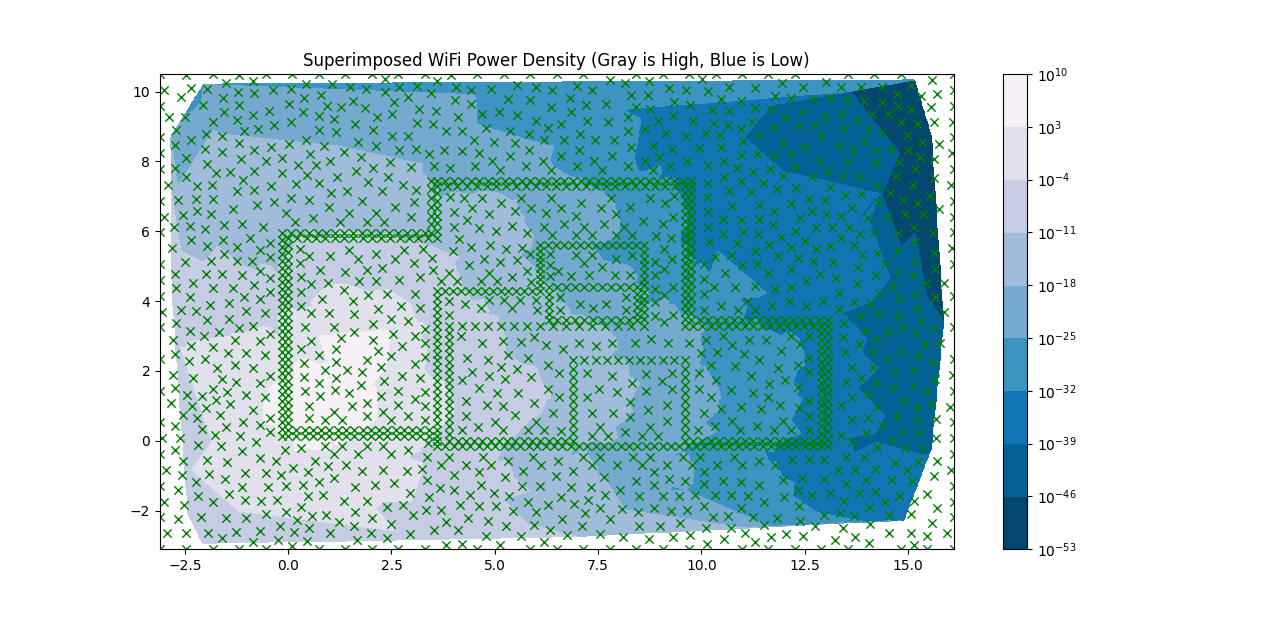
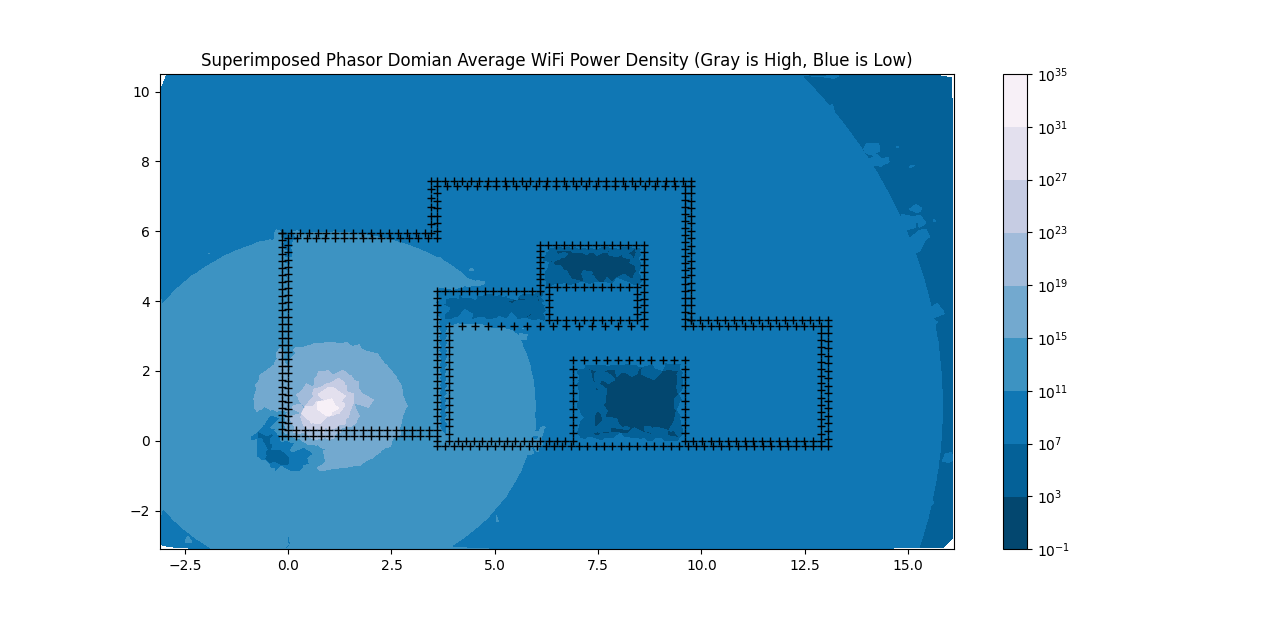
Version 1.6.0
Updated modeling of the source term-it is now modeled as a "circular wave" in x and y with harmonics at 2.4 GHz and 5.0 GHz. The problem is then reformulated as solving the vector-valued Helmholtz equation for the x- and y- components of the electric field in the phasor domain.  The density of the FEM is increased, the FEM system now solved is approximately of dimension 10,200 x 10,200, and is solved using SciPy's sparse matrix subroutines.

diff --git a/ssWFS.py b/ssWFS.py
@@ -2,13 +2,13 @@
 Eric Gelphman
 University of California Irvine Department of Mathematics
 
-Program using various Python packages to solve the linear Helmholtz equation in the phasor domain 
-with inverse-square source term with natural boundary conditions(set 3.0m from the house, over the domain 
-of my house using the linear finite element method. Section 9.4 of Kincaid and Cheney, Section 12.5 of Burden 
-and Faires, and Chapter 8 of Reddy were the three main resources consulted in the constructionof this program.
+Program using various Python packages to calculate the steady-state power density of WiFi in my house. This is accomplished by solving 
+the two dimensional vector linear Helmholtz equation in the phasor domain with circular wave source term with natural boundary conditions 
+using the linear finite element method. Section 9.4 of Kincaid and Cheney, Section 12.5 of Burden and Faires, and Chapter 8 of Reddy were 
+the three main resources consulted in the construction of this program.
 
-February 19, 2020
-v1.5.1
+February 20, 2020
+v1.6.0
 """
 
 import numpy as np
@@ -67,7 +67,37 @@ def evaluateZInt(x_coords, y_coords, tri_coefs_j, tri_coefs_k):
     z_int = h*J2#Approximation of double integral
     return z_int
 
-def evaluateHInt(x_coords, y_coords, tri_coefs_j):
+def evalf(x, y, wv_k, source_component):
+    """
+    Function to evaluate the specified component('x' or 'y') of the vector-valued source function f(x,y)
+    with wave number wv_k 
+    """
+    R = np.sqrt((x-1.0)**2 + (y-1.0)**2)
+    phi = 0.0
+    if x != 0.0:
+        phi = np.arctan(y/x)
+    elif x == 0.0:
+        if y == 0.0:
+            phi = 0.0
+        else:
+            phi = np.pi/2.0
+    A = 1.0/np.sqrt(2.0)
+    f_R = 0.0
+    f_theta = 0.0
+    if np.sqrt(x**2 + y**2) < 1.0:
+        f_R = A*(5.0 - (5.0/3.0)*R - R**2 - (4.0/3.0)*(R**3))*np.exp(-1j*wv_k*R)
+        f_theta = 0.5*A*(5.0 - (5.0/3.0)*R - R**2 - (4.0/3.0)*(R**3))*np.exp(-1j*wv_k*R)
+    else:
+        f_R = A*np.exp(-1j*wv_k*R)*(1.0/((wv_k*R)**2) - (1j/((wv_k*R)**3)))
+        f_theta = A*np.exp(-1j*wv_k*R)*((1j/(wv_k*R)) + 1.0/((wv_k*R)**2) - (1j/((wv_k*R)**3)))
+    F = 0.0
+    if source_component == 'x':
+        F = np.cos(phi)*f_R + R*np.cos(phi)*f_theta
+    elif source_component == 'y':
+        F = np.sin(phi)*f_R + R*np.sin(phi)*f_theta
+    return F*1.0e-12
+    
+def evaluateHInt(x_coords, y_coords, coefs_j, source_component, wv_k):
     """
     Function to evaluate integral over a triangular elements that does involve the source term f
     using Gaussian quadrature
@@ -75,8 +105,11 @@ def evaluateHInt(x_coords, y_coords, tri_coefs_j):
     Parameters:
     x_coords: Length 3 numpy array pf x-coordinates [x_0, x_1, x_2] of verticies of triangle
     y_coords: Length 3 numpy array of y-coordinates [y_0, y_1, y_2] of verticies of triangle
-    tri_coefs_j: Length 3 numpy array of triangle coefficents [a_j, b_j, c_j]
-
+    coefs_j: Length 3 numpy array of linear polynomial coefficents [a_j_i, b_j_i, c_j_i]
+    source_component: 'x' or 'y' to indicate which coomponent of the source function, which is vector valued, 
+                       to integrate
+    wv_k: wave number
+                        
     Return:
     Approximation to integral involving f over triangle
     """
@@ -86,14 +119,16 @@ def evaluateHInt(x_coords, y_coords, tri_coefs_j):
     y_0 = y_coords[0]
     y_1 = y_coords[1]
     y_2 = y_coords[2]
-    a_j_i = tri_coefs_j[0]
-    b_j_i = tri_coefs_j[1]
-    c_j_i = tri_coefs_j[2]
+    a_j_i = coefs_j[0]
+    b_j_i = coefs_j[1]
+    c_j_i = coefs_j[2]
     gauss_c = np.array([0.3626837833783620,0.3626837833783620,0.3137066458778873,0.3137066458778873,0.2223810344533745,0.2223810344533745,0.1012285362903763,0.1012285362903763])
     gauss_r = np.array([-0.1834346424956498,0.1834346424956498,-0.5255324099163290,0.5255324099163290,-0.7966664774136267,0.7966664774136267,-0.9602898564975363,0.9602898564975363])
+    L = len(gauss_r)
     #Change coordinates so double integral is over the triangle with verticies (0,0),(1,0),(0,1)
-    J_abs = np.abs((x_1 - x_0)*(y_2 - y_0) - (x_2 - x_0)*(y_1 - y_0))#Absolute value of determinant of Jacobian matrix
-    #Apply two-variable Gaussian quadrature, this involves another change of variables-multiply Jacobians
+    J_abs = np.abs((x_1 - x_0)*(y_2 - y_0) - (x_2 - x_0)*(y_1 - y_0))#Absolute value of determinant of Jacobian matrix for this coordinate change
+            
+    #Apply two-variable Gaussian quadrature, this involves another change of variables-multiply Jacobians, outer one(computed above) comes last
     h = 0.5
     J2 = 0.0
     for m in np.arange(len(gauss_r)):
@@ -105,12 +140,11 @@ def evaluateHInt(x_coords, y_coords, tri_coefs_j):
             v = k*gauss_r[n] + k
             phi = (x_1 - x_0)*u + (x_2 - x_0)*v + x_0
             psi = (y_1 - y_0)*u + (y_2 - y_0)*v + y_0
-            f = J_abs*(1.7/8.8541878176e-9)#Jacobian is a constant, as the derivatives are of linear functions, source is a point charge
+            f = J_abs*evalf(phi, psi, wv_k, source_component)*(a_j_i + b_j_i*phi + c_j_i*psi)
             J2X = J2X + gauss_c[n]*f
             J2 = J2 + gauss_c[m]*h*J2X
     H_int = h*J2#Approximation of double integral
     return H_int
-
 
 def triangulationFEM(gp):
     """
@@ -120,16 +154,22 @@ def triangulationFEM(gp):
     gp: L x 2 array of xy-coordinates of grid points to be enforced in the triangulation
 
     Return:
-    tri_FEM_R: Delaunay FEM triangulation after one refinement
+    tri_FEM_R: Delaunay FEM triangulation after 4 refinements
     """
     grid_dict = {hash((p[0], p[1])): p for p in gp }
     grid_points = np.array(list(grid_dict.values()))
     tri_dict = dict(vertices=grid_points)
-    tri_FEM = triangle.triangulate(tri_dict, 'qD')#Initial triangulation 
-    tri_FEM_R = triangle.triangulate(tri_FEM, 'ra0.15')#Refinement
+    tri_FEM = triangle.triangulate(tri_dict, 'qD')#Initial triangulation
+    tri_FEM_2 = triangle.triangulate(tri_FEM, 'ra0.2')#Refinement 1
+    tri_FEM_3 = triangle.triangulate(tri_FEM_2, 'ra0.1')#Refinement 2
+    tri_FEM_4 = triangle.triangulate(tri_FEM_3, 'ra0.05')#Refinement 3
+    tri_FEM_5 = triangle.triangulate(tri_FEM_4, 'ra0.02')#Refinement 4
     del tri_dict
     del tri_FEM#Triangulation takes up a lot of memory, so delete the unrefined triangulation object
-    return tri_FEM_R
+    del tri_FEM_2
+    del tri_FEM_3
+    del tri_FEM_4
+    return tri_FEM_5
 
 def generateFEM():
     """
@@ -189,11 +229,8 @@ def generateFEM():
     lr_outer = np.concatenate((o_1, o_2, o_3, o_4, o_5, o_6, o_7, o_8, o_9, o_10))
     br = np.concatenate((bath1, bath2, bath3, bath4))
     ovr_bdy = np.concatenate((D_lower, D_right, D_upper, D_left))
-    enforceable_gp = np.concatenate((lr_inner, lr_outer, br, np.array([[0.5, 1.0]]), ovr_bdy))#Include source term as a grid point
-    ax = plt.axes()
+    enforceable_gp = np.concatenate((lr_inner, lr_outer, br, ovr_bdy))
     t_FEM = triangulationFEM(enforceable_gp)
-    triangle.plot(ax, **t_FEM)
-    plt.show()
     return t_FEM, lr_inner, lr_outer, br, ovr_bdy
 
 def calcPermitivitty(gp, lr_inner, lr_outer, br, ovr_b):
@@ -292,9 +329,11 @@ def extractTriangleCoefs(linear_poly):
     c_j_i = linear_poly[2]
     return a_j_i,b_j_i,c_j_i
 
-def calcTriangleIntegrals(linear_polynomials, tri_bois, grid_points, eps_r_arr, omega):
+def calcZIntegrals(linear_polynomials, tri_bois, grid_points, eps_r_arr, omega):
     """
     Function to calculate the integrals over each triangle to generate the matrix in the finite element method
+    to generate the M + H matrix for the elliptic finite element method as described by Ch. 8 of Reddy, which 
+    is labeled Z to remain consistent with the notation used in Section 12.5 of Burden and Faires
 
     Parameters: 
     linear_polynomials: N x 3 x 3 Numpy array of linear polynomials at each node of the finite element grid
@@ -305,12 +344,10 @@ def calcTriangleIntegrals(linear_polynomials, tri_bois, grid_points, eps_r_arr, 
 
 
     Return:
-    z_arr: N x 3 x 3 Numpy array of double integrals
-    H_arr: N x 3 Numpy array of double integrals involving inhomogeneous term
+    Z_arr: N x 3 x 3 Numpy array of double integrals
     """
     N = linear_polynomials.shape[0]
-    z_arr = np.zeros((N,3,3))
-    H_arr = np.zeros((N,3))
+    Z_arr = np.zeros((N,3,3))
     for i in np.arange(N):
         x_0,y_0,x_1,y_1,x_2,y_2 = extractVertexCoordinates(tri_bois[i], grid_points)
         x_coords = np.array([x_0, x_1, x_2])
@@ -326,18 +363,55 @@ def calcTriangleIntegrals(linear_polynomials, tri_bois, grid_points, eps_r_arr, 
                 eps_r_V0 = eps_r_arr[tri_bois[i][0]]
                 eps_r_V1 = eps_r_arr[tri_bois[i][1]]
                 eps_r_V2 = eps_r_arr[tri_bois[i][2]]
-                if (eps_r_V0 == 2.7 and (eps_r_V1 == 2.7 or eps_r_V2 == 2.7)) or (eps_r_V1 == 2.7 and eps_r_V2 == 2.7):#Triangles have eps_r=2.7 if they have at least two vertices on or inside a wall
+                if eps_r_V0 == 2.7 and eps_r_V1 == 2.7 and eps_r_V2 == 2.7:#Triangles have eps_r=2.7 if they have all 3 vertices on or inside a wall
                     eps_r = 2.7
                 e_0 = 8.8541878176e-12
                 u_0 = 12.5663706144e-7
                 k_sq = (omega**2)*eps_r*e_0*u_0
                 double_int_z = evaluateZInt(x_coords, y_coords, t_j_coefs, t_k_coefs)
-                z_arr[i][j][k] = (b_j_i*b_k_i*Area_triangle) + (c_j_i*c_k_i*Area_triangle) - (k_sq*double_int_z)
-            double_integral_H = 0
-            if (np.sqrt((x_0 - 0.5)**2 + (y_0 - 1.0)**2) < 1e-12) or (np.sqrt((x_1 - 0.5)**2 + (y_1 - 1.0)**2) < 1e-12) or (np.sqrt((x_2 - 0.5)**2 + (y_2 - 1.0)**2) < 1e-12):#Model source term as point charge
-                double_integral_H = evaluateHInt(x_coords, y_coords, t_j_coefs)
-            H_arr[i][j] = -1.0*double_integral_H
-    return z_arr, H_arr
+                Z_arr[i][j][k] = (b_j_i*b_k_i*Area_triangle) + (c_j_i*c_k_i*Area_triangle) - (k_sq*double_int_z)
+    return Z_arr
+
+def calcHIntegrals(linear_polynomials, tri_bois, grid_points, eps_r_arr, omega):
+    """
+    Function to calculate the integrals over each triangle to generate the matrix in the finite element method
+    to generate the F vector for the elliptic finite element method as described by Ch. 8 of Reddy, which I
+    have relabled the H vector to reflect the notation of Section 12.5 of Burden and Faires
+
+    Parameters: 
+    linear_polynomials: N x 3 x 3 Numpy array of linear polynomials at each node of the finite element grid
+    tri_bois: N x 6 Numpy array representing the xy-coordinates of the verticies of each triangular element
+    grid_points: N x 2 Numpy array of grid points
+    eps_r_arr: Numpy array of length N that holds the value of the relative electrical permitivitty coefficient at each node 
+    omega: Angular frequency
+
+    Return:
+    H_arr_x: N x 3 Numpy array of double integrals over triangles involving x-component of source function
+    H_arr_y: N x 3 Numpy array of double integrals over triangles involving y-component of source function
+    """
+    N = linear_polynomials.shape[0]
+    H_arr_x = np.zeros((N,3), dtype=complex)
+    H_arr_y = np.zeros((N,3), dtype=complex)
+    for i in np.arange(N):
+        x_0,y_0,x_1,y_1,x_2,y_2 = extractVertexCoordinates(tri_bois[i], grid_points)
+        x_coords = np.array([x_0, x_1, x_2])
+        y_coords = np.array([y_0, y_1, y_2])
+        Area_triangle = 0.5*np.linalg.det(np.array([[x_0,y_0,1],[x_1,y_1,1],[x_2,y_2,1]]))
+        for j in np.arange(3):
+            a_j_i,b_j_i,c_j_i = extractTriangleCoefs(linear_polynomials[i][j])
+            t_j_coefs = np.array([a_j_i, b_j_i, c_j_i])
+            eps_r = 1.0
+            eps_r_V0 = eps_r_arr[tri_bois[i][0]]
+            eps_r_V1 = eps_r_arr[tri_bois[i][1]]
+            eps_r_V2 = eps_r_arr[tri_bois[i][2]]
+            if eps_r_V0 == 2.7 and eps_r_V1 == 2.7 and eps_r_V2 == 2.7:#Triangles have eps_r=2.7 if they have all three vertices on or inside a wall
+                eps_r = 2.7
+            e_0 = 8.8541878176e-12
+            u_0 = 12.5663706144e-7
+            wv_k = omega*eps_r*e_0*u_0
+            H_arr_x[i][j] = -1.0*evaluateHInt(x_coords, y_coords, t_j_coefs, 'x', wv_k)
+            H_arr_y[i][j] = -1.0*evaluateHInt(x_coords, y_coords, t_j_coefs, 'y', wv_k)
+    return H_arr_x, H_arr_y
 
 def solveFEMSystemElectric(z_arr, H_arr, tri_bois, grid_points, node_markers):
     """
@@ -362,7 +436,7 @@ def solveFEMSystemElectric(z_arr, H_arr, tri_bois, grid_points, node_markers):
     i_A = []
     j_A = []
     V_A = []
-    b = np.zeros(M)
+    b = np.zeros(M, dtype=complex)
 
     #Assemble integrals over interior triangular elements into linear system
     for i in np.arange(N):
@@ -397,25 +471,30 @@ def solveFEMSystemElectric(z_arr, H_arr, tri_bois, grid_points, node_markers):
     print("End solve electric system")
     return x_E
 
-def graphFEMSol(grid_points, tri_bois, E_coefs_24, E_coefs_5, eps_arr, linear_poly):
+def graphFEMSol(grid_points, tri_bois, E_coefs_24_x, E_coefs_24_y, E_coefs_5_x, E_coefs_5_y, eps_arr, linear_poly, house_grid):
     """
     Function to generate a 3D plot of the solution obtained using the finite element method
 
     Parameters:
     grid_points: M x 2 representing xy-coordinates of grid points/nodes
     tri_bois: N x 3 numpy array of node indices of the three vertices of each triangle 
-    E_coefs_24: Numpy array of length M of node coefficients that solve the FEM equations for the electric field at 2.4GHz
-    E_coefs_5: Numpy array of length M of node coefficients that solve the FEM equations for the electric field at 5.0GHz
+    E_coefs_24_x: Numpy array of length M of node coefficients that solve the FEM equations for the electric field at 2.4GHz for x-component
+    E_coefs_24_y: Numpy array of length M of node coefficients that solve the FEM equations for the electric field at 2.4GHz for y-component
+    E_coefs_5_x: Numpy array of length M of node coefficients that solve the FEM equations for the electric field at 5.0GHz for x-component
+    E_coefs_5_y: Numpy array of length M of node coefficients that solve the FEM equations for the electric field at 5.0GHz for y-component
     eps_arr: Numpy array of length n that holds the values of the electric permitivitty coefficient(e_r*e_0) at each node
     linear_poly: N x 3 x 3 Numpy array of two-variable linear polynomial coefficients
+    house_grid: K x 2 Numpy array of points that form the boundary of the house and its walls
     """
     print("Graphing started")
     #Generate and plot numerical values of solution at the centroid of each triangle
     N = grid_points.shape[0]
     x_vals = np.zeros(N)
     y_vals = np.zeros(N)
-    E_phasor_24 = np.zeros(N)
-    E_phasor_5 = np.zeros(N)
+    E_phasor_24_x = np.zeros(N, dtype=complex)
+    E_phasor_24_y = np.zeros(N, dtype=complex)
+    E_phasor_5_x = np.zeros(N, dtype=complex)
+    E_phasor_5_y = np.zeros(N, dtype=complex)
     for ii in np.arange(N):
         x_0,y_0,x_1,y_1,x_2,y_2 = extractVertexCoordinates(tri_bois[ii], grid_points)
         #Calculate centroid
@@ -424,24 +503,33 @@ def graphFEMSol(grid_points, tri_bois, E_coefs_24, E_coefs_5, eps_arr, linear_po
         centroid_y = (y_0 + y_1 + y_2)/3.0
         y_vals[ii] = centroid_y
         for jj in np.arange(3):
-            E_phasor_24[ii] = E_phasor_24[ii] + E_coefs_24[tri_bois[ii][jj]]*(linear_poly[ii][jj][0] + linear_poly[ii][jj][1]*centroid_x + linear_poly[ii][jj][2]*centroid_y)
-            E_phasor_5[ii] = E_phasor_5[ii] + E_coefs_5[tri_bois[ii][jj]]*(linear_poly[ii][jj][0] + linear_poly[ii][jj][1]*centroid_x + linear_poly[ii][jj][2]*centroid_y)
+            E_phasor_24_x[ii] = E_phasor_24_x[ii] + E_coefs_24_x[tri_bois[ii][jj]]*(linear_poly[ii][jj][0] + linear_poly[ii][jj][1]*centroid_x + linear_poly[ii][jj][2]*centroid_y)
+            E_phasor_24_y[ii] = E_phasor_24_y[ii] + E_coefs_24_y[tri_bois[ii][jj]]*(linear_poly[ii][jj][0] + linear_poly[ii][jj][1]*centroid_x + linear_poly[ii][jj][2]*centroid_y)
+            E_phasor_5_x[ii] = E_phasor_5_x[ii] + E_coefs_5_x[tri_bois[ii][jj]]*(linear_poly[ii][jj][0] + linear_poly[ii][jj][1]*centroid_x + linear_poly[ii][jj][2]*centroid_y)
+            E_phasor_5_y[ii] = E_phasor_5_y[ii] + E_coefs_5_y[tri_bois[ii][jj]]*(linear_poly[ii][jj][0] + linear_poly[ii][jj][1]*centroid_x + linear_poly[ii][jj][2]*centroid_y)
     u_0 = 12.5663706144e-7
 
+    E_phasor_x = E_phasor_24_x + E_phasor_5_x#Add vectors componentwise
+    E_phasor_y = E_phasor_24_y + E_phasor_5_y
+    del E_phasor_24_x
+    del E_phasor_24_y
+    del E_phasor_5_x
+    del E_phasor_5_y
+
     #Power density
-    power_density = np.power(E_phasor_24 + E_phasor_5,2)/(2.0*np.sqrt(u_0/eps_arr)) 
-    del E_phasor_24
-    del E_phasor_5
-    xi = np.linspace(-3.1, 16.1, 1000)
-    yi = np.linspace(-3.1, 10.5, 1000)
+    power_density = np.power(np.real(np.multiply(E_phasor_x,np.conjugate(E_phasor_x))) + np.real(np.multiply(E_phasor_y,np.conjugate(E_phasor_y))), 2)/(2.0*np.sqrt(u_0/eps_arr)) 
+    del E_phasor_x
+    del E_phasor_y
+    xi = np.linspace(-3.1, 16.1, 1250)
+    yi = np.linspace(-3.1, 10.5, 1250)
     X,Y = np.meshgrid(xi,yi)
     Z = griddata((x_vals, y_vals), power_density, (X, Y), method='linear')
     # contour the gridded power density data, plotting dots at the nonuniform data points.
     fig, ax = plt.subplots()
     cs = ax.contourf(X, Y, Z, locator=ticker.LogLocator(), cmap = 'PuBu_r')#Plot interpolated power density data
     cbar = fig.colorbar(cs)
-    ax.scatter(grid_points[:,0],grid_points[:,1], marker='x', linewidths=1, c='g')#Plot grid points for reference
-    ax.set_title("Superimposed WiFi Power Density (Gray is High, Blue is Low)")
+    ax.scatter(house_grid[:,0], house_grid[:,1], marker='+', linewidths=1, c='k')#Plot grid points for reference
+    ax.set_title("Superimposed Phasor Domian Average WiFi Power Density (Gray is High, Blue is Low)")
     plt.show()
 
 def main():
@@ -449,8 +537,10 @@ def main():
     #Parameters not dependent on omega or alpha
     PI = np.pi
     t_FEM1, lr_inner, lr_outer, br, ovr_boundary = generateFEM()
+    hg = np.concatenate((lr_inner, lr_outer, br))
     FEM_triangles = np.array(t_FEM1['triangles'].tolist())
     nodes = np.array(t_FEM1['vertices'].tolist())
+    print(len(nodes))
     node_markers = np.array(t_FEM1['vertex_markers'].tolist()).flatten()#Marker is 1 if node is on the boundary, 0 otherwise
     eps_r_arr = calcPermitivitty(nodes, lr_inner, lr_outer, br, ovr_boundary)#Calculate permitivitty at each node
     linear_polynomials = generateLinearPolynomials(FEM_triangles, nodes, node_markers)#Calculate linear polynomials
@@ -458,18 +548,22 @@ def main():
     #Solve using FEM aout each frequency spike, then combine the two solutions using superposition - this is a linear PDE with linear BCs
     #Solve at 2.4GHz
     omega_24 = 2*PI*2.4e9
-    z_arr_24, H_arr_24 = calcTriangleIntegrals(linear_polynomials, FEM_triangles, nodes, eps_r_arr, omega_24)#Calculate triangle integrals
-    E_coefs_24 = solveFEMSystemElectric(z_arr_24, H_arr_24, FEM_triangles, nodes, node_markers)#Solve for electric field coefficients
+    z_arr_24 = calcZIntegrals(linear_polynomials, FEM_triangles, nodes, eps_r_arr, omega_24)#Calculate Z integrals at 2.4GHz
+    H_arr_24_x, H_arr_24_y = calcHIntegrals(linear_polynomials, FEM_triangles, nodes, eps_r_arr, omega_24)#Calculate H integrals at 2.4GHz
+    E_coefs_24_x = solveFEMSystemElectric(z_arr_24, H_arr_24_x, FEM_triangles, nodes, node_markers)#Solve for electric field coefficients for x component
+    E_coefs_24_y = solveFEMSystemElectric(z_arr_24, H_arr_24_y, FEM_triangles, nodes, node_markers)#Solve for electric field coefficients for y component
 
     #Solve at 5.0GHz
     omega_5 = 2*PI*5.0e9
-    z_arr_5, H_arr_5 = calcTriangleIntegrals(linear_polynomials, FEM_triangles, nodes, eps_r_arr, omega_5)#Calculate triangle integrals
-    E_coefs_5 = solveFEMSystemElectric(z_arr_5, H_arr_5, FEM_triangles, nodes, node_markers)#Solve for electric field coefficients
+    z_arr_5 = calcZIntegrals(linear_polynomials, FEM_triangles, nodes, eps_r_arr, omega_5)#Calculate Z integrals at 5 GHz
+    H_arr_5_x, H_arr_5_y = calcHIntegrals(linear_polynomials, FEM_triangles, nodes, eps_r_arr, omega_5)#Calculate H integrals at 5 GHz
+    E_coefs_5_x = solveFEMSystemElectric(z_arr_5, H_arr_5_x, FEM_triangles, nodes, node_markers)#Solve for electric field coefficients
+    E_coefs_5_y = solveFEMSystemElectric(z_arr_5, H_arr_5_y, FEM_triangles, nodes, node_markers)#Solve for electric field coefficients
 
     #Plor Results of Simulation
     e_0 = 8.8541878176e-12
     eps_arr = e_0*eps_r_arr
-    graphFEMSol(nodes, FEM_triangles, E_coefs_24, E_coefs_5, eps_arr, linear_polynomials)#Graph the solution
+    graphFEMSol(nodes, FEM_triangles, E_coefs_24_x, E_coefs_24_y, E_coefs_5_x, E_coefs_5_y, eps_arr, linear_polynomials, hg)#Graph the solution
 
 if __name__ == "__main__":
     main()
